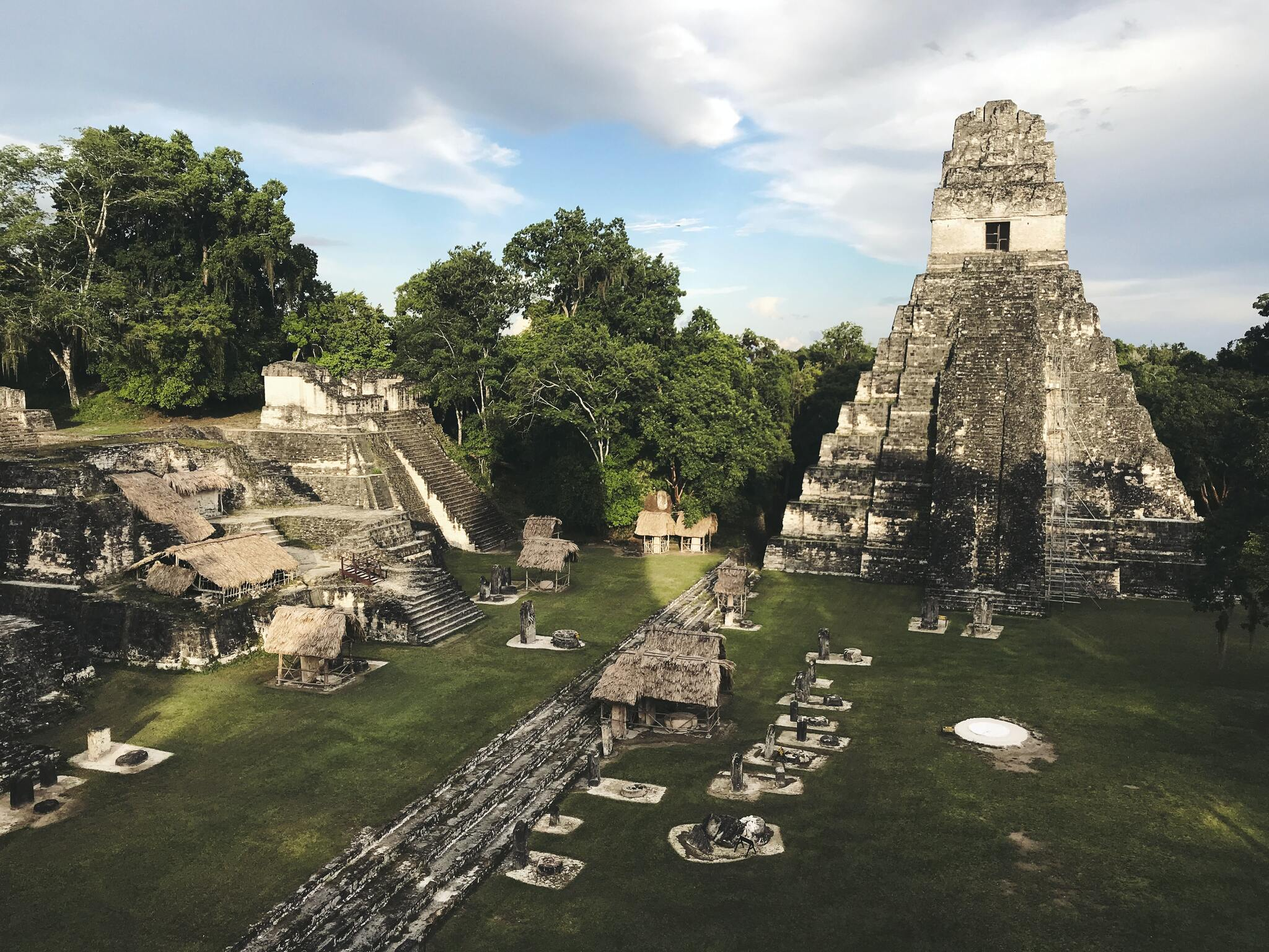
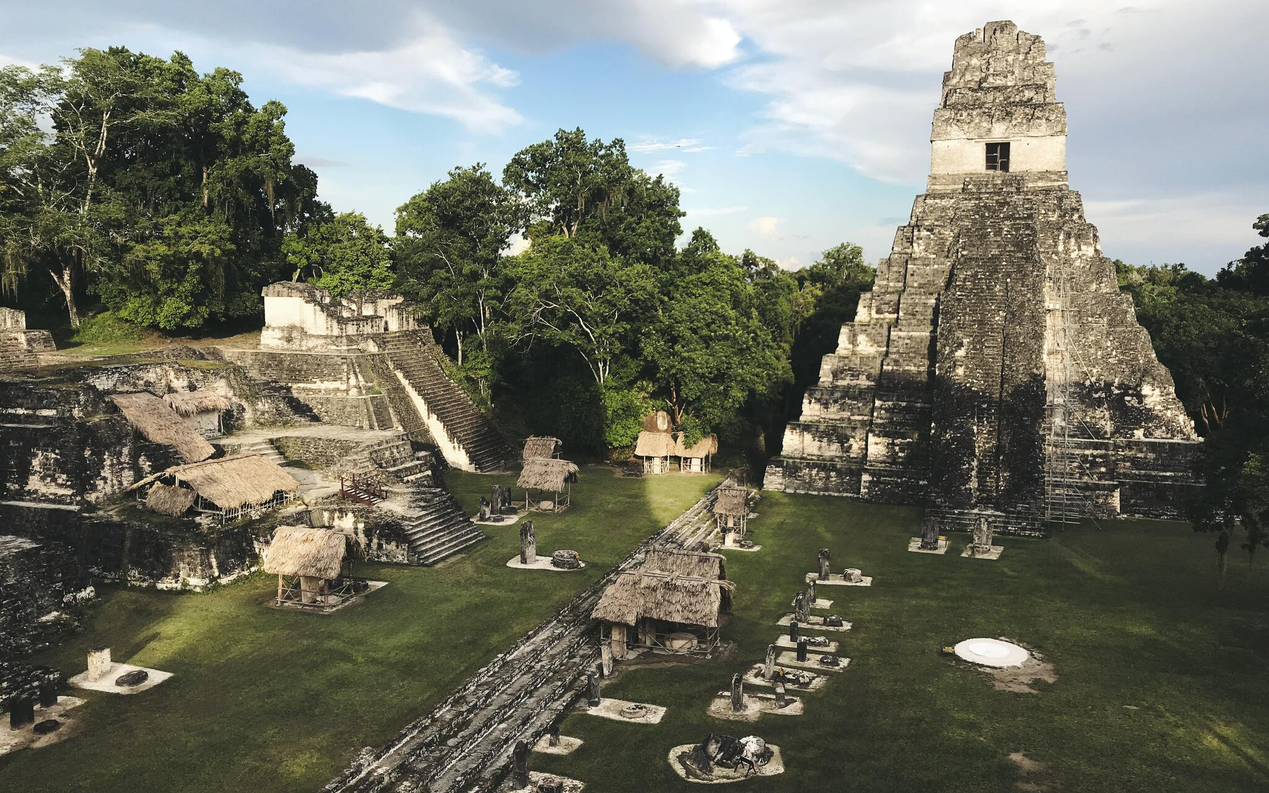
fix: 💫 update image aspect ratios

diff --git a/src/lib/components/Image.svelte b/src/lib/components/Image.svelte
@@ -69,7 +69,7 @@
 		box-shadow: var(--shadow-elevation-medium);
 		outline: var(--spacing-px) solid var(--colour-brand);
 		max-width: 100%;
-		aspect-ratio: 16/ 9;
+		aspect-ratio: 16 / 10;
 		height: auto;
 	}
 

diff --git a/src/lib/components/Thumbnails.svelte b/src/lib/components/Thumbnails.svelte
@@ -117,7 +117,7 @@
 	.thumbnail-item {
 		width: 40vw;
 		height: auto;
-		aspect-ratio: 16 / 9;
+		aspect-ratio: 16 / 10;
 		border-radius: var(--spacing-1);
 
 		@media (width > 48rem) {
